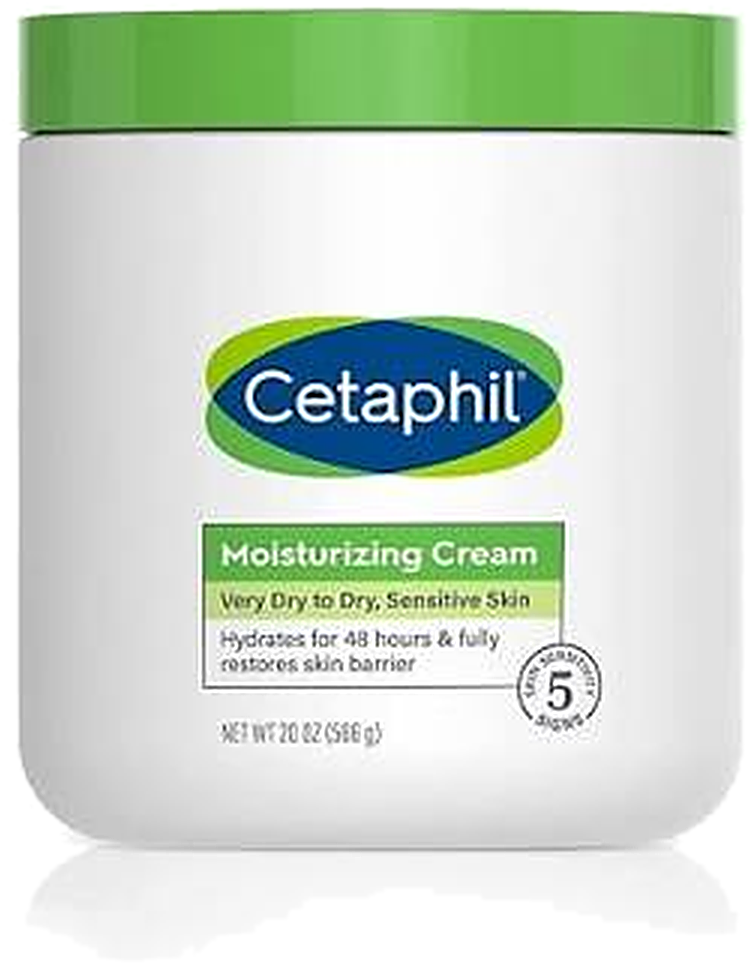
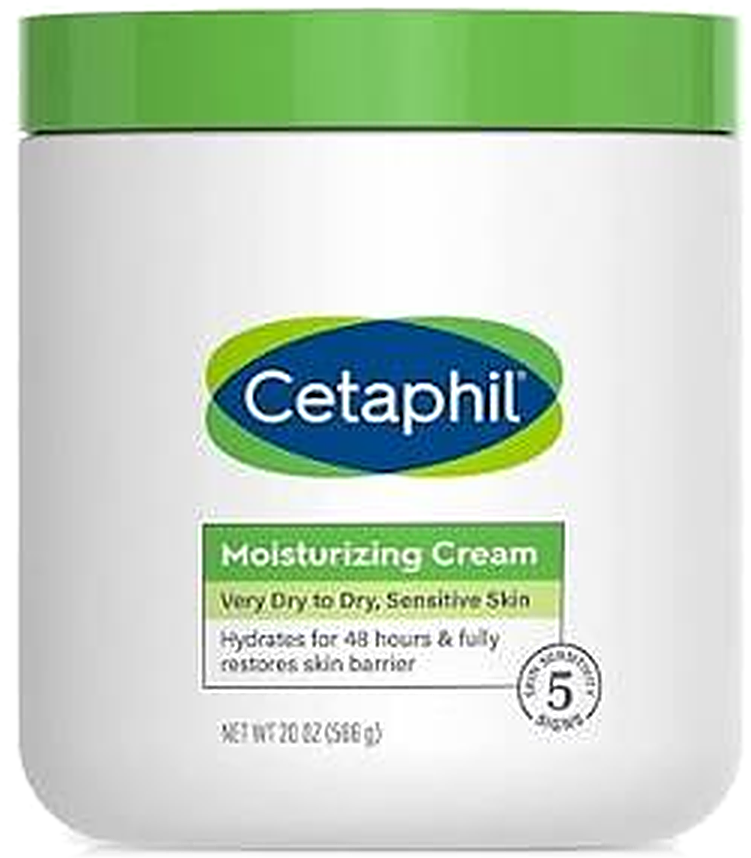
Add Cetaphil 15s ad composition; clean jar cutout
Claude-Session: https://claude.ai/code/session_01Cz1raxr9jbenTSk6iSFoZ1

diff --git a/claude-video/src/cetaphil/Ad15.tsx b/claude-video/src/cetaphil/Ad15.tsx
@@ -1,0 +1,120 @@
+import React from "react";
+import { AbsoluteFill, Audio, Img, Sequence, interpolate, spring, staticFile, useCurrentFrame, useVideoConfig } from "remotion";
+import { fontFamily } from "../theme";
+
+// 15s vertical social ad — trendy, kinetic. Real jar photo for exact branding; AI macro for texture.
+export const C = { green: "#5DB247", deep: "#1F6E3A", mint: "#E7F3E4", cream: "#FFFFFF", ink: "#0F2A1A", blue: "#1B5FAA" };
+const clamp = { extrapolateLeft: "clamp", extrapolateRight: "clamp" } as const;
+const S = (f: number, fps: number, d = 12) => spring({ frame: f, fps, config: { damping: d } });
+
+/* 1 — HOOK: dry, tight skin. Text cracks open. */
+const Hook: React.FC = () => {
+  const f = useCurrentFrame();
+  const { fps } = useVideoConfig();
+  const zoom = interpolate(f, [0, 8], [1.8, 1], clamp);
+  const shake = f < 10 ? Math.sin(f * 4) * (10 - f) * 2 : 0;
+  const crack = interpolate(f, [18, 40], [0, 1], clamp);
+  const sub = S(f - 30, fps);
+  return (
+    <AbsoluteFill style={{ background: "radial-gradient(circle at 50% 40%, #3b2f27, #120d0a 75%)", alignItems: "center", justifyContent: "center" }}>
+      <svg width="1080" height="1920" style={{ position: "absolute", opacity: 0.55 }}>
+        {[["540,900 470,760 520,640 430,470", 0], ["540,900 640,780 610,620 700,430", 0.1], ["540,900 420,1010 460,1180 360,1380", 0.2], ["540,900 660,1040 620,1220 720,1450", 0.3]].map(([pts, d], i) => (
+          <polyline key={i} points={pts as string} fill="none" stroke="#c9b6a3" strokeWidth={5} strokeDasharray={1200} strokeDashoffset={1200 * (1 - Math.max(0, Math.min(1, (crack - (d as number)) / 0.7)))} />
+        ))}
+      </svg>
+      <div style={{ transform: `scale(${zoom}) translateX(${shake}px)`, textAlign: "center", color: "white" }}>
+        <div style={{ fontSize: 120, fontWeight: 900, lineHeight: 1.15 }}>بشرتك<br />تشد وتجف؟</div>
+      </div>
+      <div style={{ position: "absolute", bottom: 420, fontSize: 52, color: "#d8c9bb", fontWeight: 700, opacity: sub, transform: `translateY(${(1 - sub) * 30}px)` }}>
+        المكيّف، الشمس، والماء الحار... 🥵
+      </div>
+    </AbsoluteFill>
+  );
+};
+
+/* 2 — TEXTURE + 48h counter */
+const Texture: React.FC<{ dur: number }> = ({ dur }) => {
+  const f = useCurrentFrame();
+  const { fps } = useVideoConfig();
+  const reveal = interpolate(f, [0, 14], [0, 1], clamp);
+  const zoom = interpolate(f, [0, dur], [1.15, 1.35]);
+  const n = Math.round(interpolate(f, [12, dur * 0.7], [0, 48], clamp));
+  const t = S(f - 10, fps, 11);
+  return (
+    <AbsoluteFill style={{ background: C.mint }}>
+      <AbsoluteFill style={{ clipPath: `circle(${reveal * 120}% at 50% 55%)` }}>
+        <Img src={staticFile("cetaphil/cream.png")} style={{ position: "absolute", height: "100%", left: "50%", transform: `translateX(-50%) scale(${zoom})`, transformOrigin: "50% 60%" }} />
+        <AbsoluteFill style={{ background: "linear-gradient(180deg, rgba(231,243,228,.92) 0%, rgba(231,243,228,0) 38%, rgba(231,243,228,0) 70%, rgba(231,243,228,.85) 100%)" }} />
+      </AbsoluteFill>
+      <div style={{ position: "absolute", top: 210, left: 0, right: 0, textAlign: "center", color: C.ink, transform: `scale(${0.7 + t * 0.3})`, opacity: t }}>
+        <div style={{ fontSize: 60, fontWeight: 700 }}>ترطيب يدوم</div>
+        <div style={{ fontSize: 300, fontWeight: 900, lineHeight: 1, color: C.deep, direction: "ltr" }}>{n}</div>
+        <div style={{ fontSize: 80, fontWeight: 900 }}>ساعة 💧</div>
+      </div>
+    </AbsoluteFill>
+  );
+};
+
+/* 3 — HERO: real jar drops in, light sweep, benefit chips */
+const Hero: React.FC<{ dur: number }> = ({ dur }) => {
+  const f = useCurrentFrame();
+  const { fps } = useVideoConfig();
+  const drop = S(f, fps, 9);
+  const sweep = interpolate(f, [10, 40], [-60, 160], clamp);
+  const chips = ["للبشرة الجافة جداً", "لطيف على البشرة الحساسة", "يرمّم حاجز البشرة"];
+  const float = Math.sin(f / 14) * 10;
+  return (
+    <AbsoluteFill style={{ background: `radial-gradient(circle at 50% 45%, #ffffff 0%, ${C.mint} 45%, #cfe8c8 100%)`, alignItems: "center" }}>
+      <div style={{ position: "absolute", top: 560, width: 700, height: 120, borderRadius: "50%", background: "rgba(31,110,58,.18)", filter: "blur(30px)", transform: `translateY(${560}px) scale(${drop})` }} />
+      <div style={{ position: "absolute", top: 420, transform: `translateY(${(1 - drop) * -1200 + float}px) rotate(${(1 - drop) * -12}deg)`, width: 720 }}>
+        <Img src={staticFile("cetaphil/jar.png")} style={{ width: "100%", filter: "drop-shadow(0 40px 50px rgba(15,42,26,.28))" }} />
+        <div style={{ position: "absolute", inset: 0, WebkitMaskImage: `url(${staticFile("cetaphil/jar.png")})`, WebkitMaskSize: "100% 100%", background: `linear-gradient(100deg, transparent ${sweep - 20}%, rgba(255,255,255,.75) ${sweep}%, transparent ${sweep + 20}%)` }} />
+      </div>
+      <div style={{ position: "absolute", top: 1420, display: "flex", flexDirection: "column", gap: 22, alignItems: "center" }}>
+        {chips.map((c, i) => {
+          const s = S(f - Math.round(dur * 0.22) - i * 12, fps, 12);
+          return (
+            <div key={c} style={{ fontSize: 50, fontWeight: 900, color: "white", background: i === 1 ? C.blue : C.deep, padding: "16px 44px", borderRadius: 999, opacity: s, transform: `translateX(${(1 - s) * (i % 2 ? -300 : 300)}px)` }}>
+              ✓ {c}
+            </div>
+          );
+        })}
+      </div>
+      <div style={{ position: "absolute", top: 200, fontSize: 70, fontWeight: 900, color: C.ink, opacity: S(f - 6, fps) }}>كريم مرطّب يومي</div>
+    </AbsoluteFill>
+  );
+};
+
+/* 4 — END CARD */
+const End: React.FC = () => {
+  const f = useCurrentFrame();
+  const { fps } = useVideoConfig();
+  const s = S(f, fps, 11);
+  const t = S(f - 12, fps, 12);
+  return (
+    <AbsoluteFill style={{ background: `linear-gradient(170deg, ${C.green}, ${C.deep})`, alignItems: "center", justifyContent: "center", gap: 50 }}>
+      <Img src={staticFile("cetaphil/jar.png")} style={{ width: 520, transform: `scale(${0.6 + s * 0.4}) rotate(${(1 - s) * 8}deg)`, filter: "drop-shadow(0 30px 40px rgba(0,0,0,.35))" }} />
+      <div style={{ textAlign: "center", color: "white", opacity: t, transform: `translateY(${(1 - t) * 40}px)` }}>
+        <div style={{ fontSize: 92, fontWeight: 900, lineHeight: 1.2 }}>بشرتك تستاهل<br />ترطيب يدوم</div>
+        <div style={{ marginTop: 30, display: "inline-block", fontSize: 46, fontWeight: 900, background: "white", color: C.deep, padding: "14px 46px", borderRadius: 999 }}>متوفر الآن 🛒</div>
+      </div>
+    </AbsoluteFill>
+  );
+};
+
+// Scene lengths in frames (30fps) — tuned to the voiceover.
+export const AD15_SCENES = { hook: 75, texture: 105, hero: 150, end: 120 };
+export const AD15_TOTAL = AD15_SCENES.hook + AD15_SCENES.texture + AD15_SCENES.hero + AD15_SCENES.end;
+
+export const Ad15: React.FC<{ audio?: string | null }> = ({ audio = "cetaphil/vo15.mp3" }) => {
+  const s = AD15_SCENES;
+  return (
+    <AbsoluteFill style={{ fontFamily, direction: "rtl", background: "#000" }}>
+      <Sequence durationInFrames={s.hook}><Hook /></Sequence>
+      <Sequence from={s.hook} durationInFrames={s.texture}><Texture dur={s.texture} /></Sequence>
+      <Sequence from={s.hook + s.texture} durationInFrames={s.hero}><Hero dur={s.hero} /></Sequence>
+      <Sequence from={s.hook + s.texture + s.hero} durationInFrames={s.end}><End /></Sequence>
+      {audio ? <Audio src={staticFile(audio)} /> : null}
+    </AbsoluteFill>
+  );
+};

diff --git a/claude-video/src/Root.tsx b/claude-video/src/Root.tsx
@@ -5,6 +5,7 @@ import { ClaudeCodeVideo, calculateMetadata } from "./Video";
 import { JourneyVideo, calculateJourneyMetadata } from "./journey/Journey";
 import { LessonsVideo, calculateLessonsMetadata } from "./lessons/Lessons";
 import { ViduPromo } from "./vidu/ViduPromo";
+import { Ad15, AD15_TOTAL } from "./cetaphil/Ad15";
 
 export const RemotionRoot: React.FC = () => (
   <>
@@ -41,5 +42,6 @@ export const RemotionRoot: React.FC = () => (
     <Composition id="ViduPromo" component={ViduPromo} durationInFrames={300} fps={FPS} width={1080} height={1920} defaultProps={{ variant: "v1" as const }} />
     <Composition id="ViduPromoV2" component={ViduPromo} durationInFrames={506} fps={FPS} width={1080} height={1920} defaultProps={{ variant: "v2" as const }} />
     <Composition id="ViduPromoV3" component={ViduPromo} durationInFrames={554} fps={FPS} width={1080} height={1920} defaultProps={{ variant: "v3" as const }} />
+    <Composition id="CetaphilAd15" component={Ad15} durationInFrames={AD15_TOTAL} fps={FPS} width={1080} height={1920} defaultProps={{ audio: null as string | null }} />
   </>
 );
